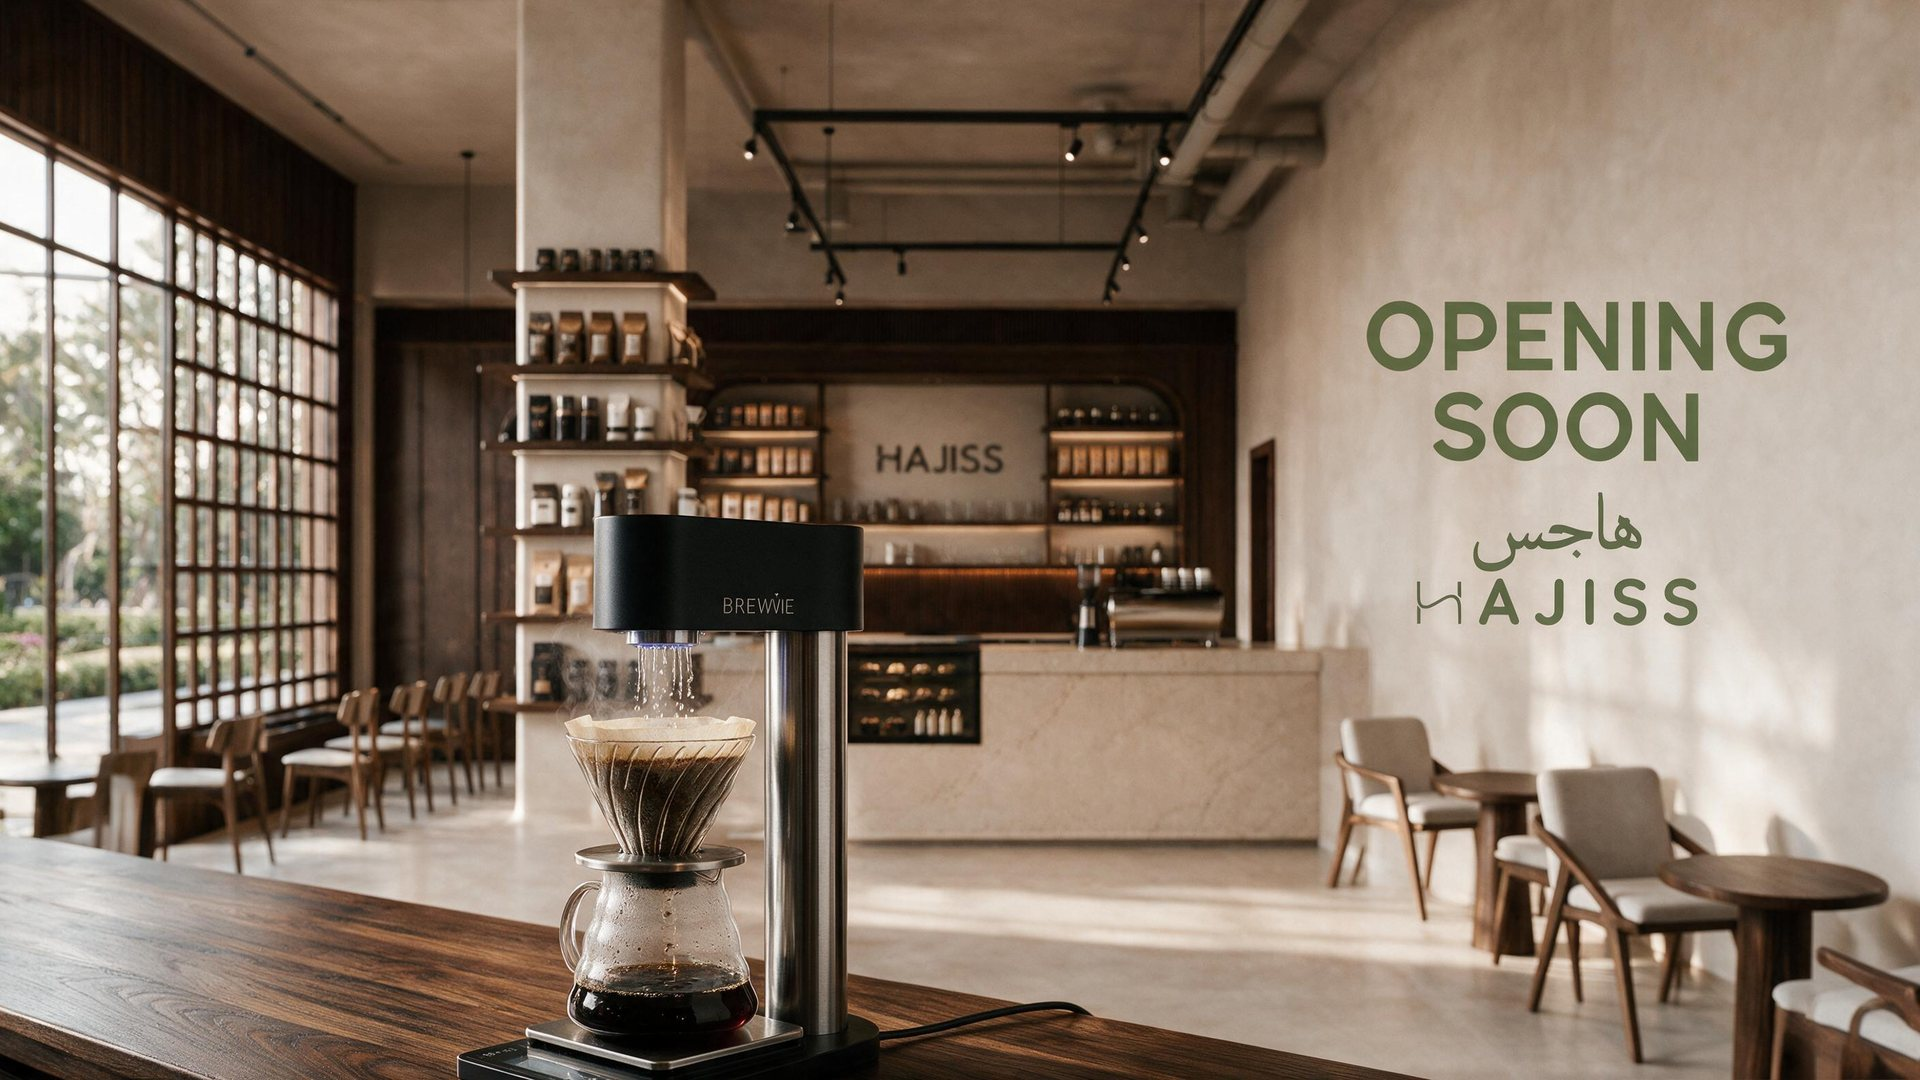
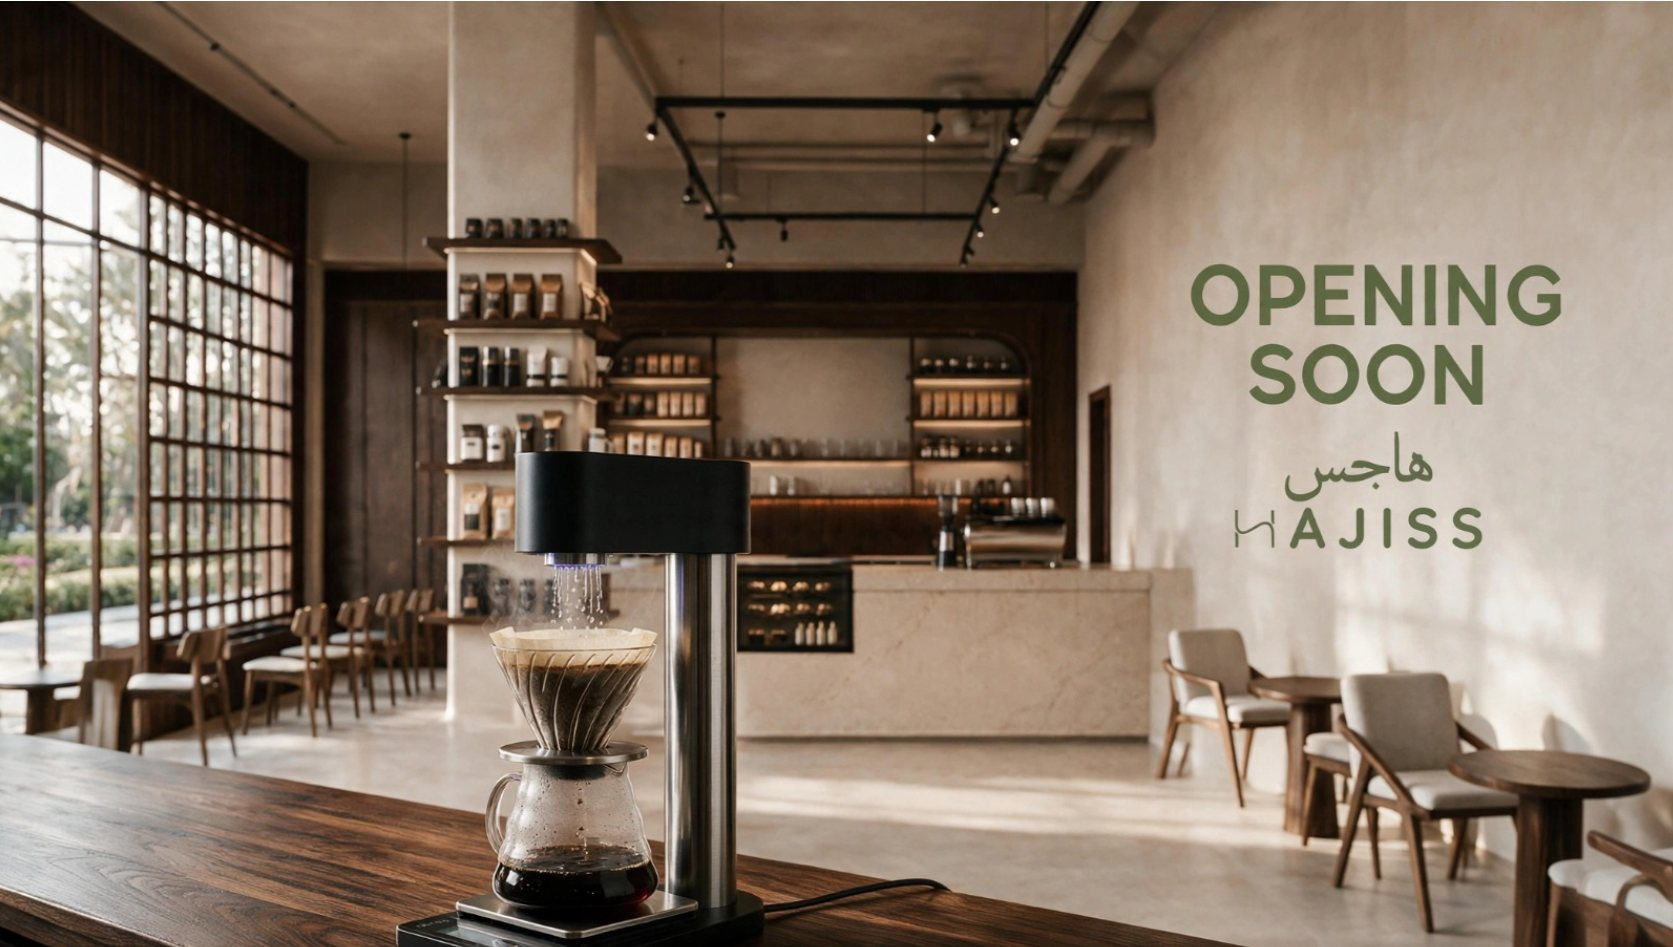
header update

diff --git a/index.html b/index.html
@@ -20,14 +20,89 @@
         font-family: -apple-system, BlinkMacSystemFont, 'Segoe UI', Tahoma, sans-serif;
       }
       #boot-failed[hidden] { display: none; }
-      #boot b { font-size: 44px; font-weight: 700; }
-      #boot span { margin-top: 6px; font-size: 13px; letter-spacing: 0.4em; color: #c8bca7; }
-      #boot-failed p { margin: 4px 0; font-size: 17px; }
-      #boot-failed button {
-        margin-top: 18px; padding: 12px 28px; border: 0; border-radius: 999px;
-        background: #c8bca7; color: #2b180e; font-size: 15px; font-weight: 700;
+      /* Brand loader. Selectors start with #boot and animations are !important, because the site's
+         global `* { animation: none !important }` rule would otherwise switch them off. Only
+         opacity, scale, rotate, stroke and background properties are animated (transform is blocked). */
+      #boot {
+        background: radial-gradient(ellipse at 50% 38%, #5b4a3a 0%, #40372d 42%, #2b180e 100%);
+        overflow: hidden;
       }
-      #boot-error { margin-top: 18px; max-width: 320px; font-size: 11px; color: #c8bca7; word-break: break-all; direction: ltr; }
+      #boot::before {
+        content: ''; position: absolute; inset: 0; pointer-events: none;
+        background-image: radial-gradient(rgba(200, 188, 167, 0.07) 1px, transparent 0);
+        background-size: 22px 22px;
+      }
+      #boot .boot-stage {
+        position: relative; display: flex; flex-direction: column; align-items: center;
+        animation: boot-in 0.7s ease-out both !important;
+      }
+      #boot .boot-mark { width: 168px; height: 168px; overflow: visible; }
+      #boot .boot-track { fill: none; stroke: rgba(200, 188, 167, 0.14); stroke-width: 1.5; }
+      #boot .boot-sweep {
+        fill: none; stroke: url(#bootRing); stroke-width: 2.5; stroke-linecap: round;
+        stroke-dasharray: 16 84; transform-box: view-box; transform-origin: 60px 60px;
+        animation: boot-spin 1.8s linear infinite !important;
+      }
+      #boot .boot-cup-line, #boot .boot-handle-line, #boot .boot-saucer-line {
+        fill: none; stroke: #e6cfa6; stroke-width: 2.6; stroke-linecap: round; stroke-linejoin: round;
+        stroke-dasharray: 100; stroke-dashoffset: 100;
+        animation: boot-draw 1.2s cubic-bezier(.45,0,.2,1) forwards !important;
+      }
+      #boot .boot-handle-line { animation-delay: 0.25s !important; }
+      #boot .boot-saucer-line { animation-delay: 0.45s !important; }
+      #boot .boot-coffee {
+        fill: url(#bootCoffee); transform-box: view-box; transform-origin: 60px 92px;
+        animation: boot-fill 1.6s cubic-bezier(.4,0,.2,1) 0.5s both !important;
+      }
+      #boot .boot-steam {
+        fill: none; stroke: rgba(243, 235, 221, 0.8); stroke-width: 2.2; stroke-linecap: round;
+        stroke-dasharray: 100; stroke-dashoffset: 100; opacity: 0;
+        animation: boot-steam 2.6s ease-in-out infinite !important;
+      }
+      #boot .boot-steam.b { animation-delay: 0.9s !important; }
+      #boot .boot-brand {
+        margin-top: 30px; display: flex; flex-direction: column; align-items: center;
+        animation: boot-in 0.8s ease-out 0.6s both !important;
+      }
+      #boot .boot-brand b { font-size: 38px; font-weight: 700; color: #f3ebdd; line-height: 1.2; }
+      #boot .boot-rule {
+        display: block; width: 56px; height: 1px; margin: 12px 0 10px; background: #d9b98a;
+        animation: boot-rule 0.9s cubic-bezier(.2,.7,.2,1) 0.9s both !important;
+      }
+      #boot .boot-brand span { font-size: 12px; letter-spacing: 0.42em; color: #c8bca7; margin-right: -0.42em; }
+      #boot .boot-tag { margin: 16px 0 0; font-size: 13px; color: #c8bca7; animation: boot-in 0.8s ease-out 1s both !important; }
+      #boot .boot-bar {
+        position: absolute; bottom: 14%; left: 50%; width: 140px; height: 2px; margin-left: -70px;
+        overflow: hidden; border-radius: 2px; background: rgba(200, 188, 167, 0.16);
+      }
+      #boot .boot-bar i {
+        position: absolute; top: 0; bottom: 0; width: 45%; border-radius: 2px;
+        background: linear-gradient(90deg, rgba(217, 185, 138, 0), #d9b98a, rgba(217, 185, 138, 0));
+        animation: boot-shimmer 1.5s ease-in-out infinite !important;
+      }
+      #boot.is-leaving { animation: boot-out 0.6s ease-in forwards !important; }
+      @keyframes boot-in { from { opacity: 0; } to { opacity: 1; } }
+      @keyframes boot-draw { to { stroke-dashoffset: 0; } }
+      @keyframes boot-spin { to { rotate: 360deg; } }
+      @keyframes boot-fill { from { scale: 1 0; } to { scale: 1 1; } }
+      @keyframes boot-rule { from { scale: 0 1; } to { scale: 1 1; } }
+      @keyframes boot-steam {
+        0% { stroke-dashoffset: 100; opacity: 0; }
+        20% { opacity: 0.9; }
+        70% { stroke-dashoffset: 0; opacity: 0.5; }
+        100% { stroke-dashoffset: -30; opacity: 0; }
+      }
+      @keyframes boot-shimmer { from { left: -45%; } to { left: 100%; } }
+      @keyframes boot-out { from { opacity: 1; } to { opacity: 0; visibility: hidden; } }
+      @media (prefers-reduced-motion: reduce) {
+        #boot .boot-stage, #boot .boot-brand, #boot .boot-tag, #boot .boot-sweep,
+        #boot .boot-steam, #boot .boot-bar i, #boot .boot-rule { animation: none !important; }
+        #boot .boot-cup-line, #boot .boot-handle-line, #boot .boot-saucer-line {
+          stroke-dashoffset: 0 !important; animation: none !important;
+        }
+        #boot .boot-coffee { scale: 1 1 !important; animation: none !important; }
+        #boot .boot-steam, #boot .boot-bar { display: none; }
+      }
     </style>
     <!-- Kept in plain ES5 so it still runs on browsers too old for the app itself. -->
     <script>
@@ -37,9 +112,21 @@
         var lastError = '';
         var started = new Date().getTime();
 
+        var MIN_SHOW_MS = 1600;
+
         function booted() {
           var root = document.getElementById('root');
-          return !!root && root.children.length > 0 && !document.getElementById('boot');
+          return !!root && root.children.length > 0;
+        }
+        // Fade the loader out once the app is ready, after it has been shown long enough to be seen.
+        function hideLoader() {
+          var wait = Math.max(0, MIN_SHOW_MS - (new Date().getTime() - started));
+          setTimeout(function () {
+            var loader = document.getElementById('boot');
+            if (!loader) return;
+            loader.className += ' is-leaving';
+            setTimeout(function () { if (loader.parentNode) loader.parentNode.removeChild(loader); }, 700);
+          }, wait);
         }
         function setFailed(show) {
           var box = document.getElementById('boot-failed');
@@ -75,6 +162,7 @@
           if (booted()) {
             clearInterval(timer);
             setFailed(false);
+            hideLoader();
             try { sessionStorage.removeItem(RETRY_KEY); } catch (e) { /* storage blocked */ }
           } else if (new Date().getTime() - started > GIVE_UP_MS) {
             lastError = lastError || 'Timed out waiting for the app to start';
@@ -85,7 +173,38 @@
     </script>
   </head>
   <body dir="rtl">
-    <div id="root"><div id="boot"><b>هاجس</b><span>HAJISS</span></div></div>
+    <div id="boot" role="status" aria-live="polite" aria-label="جارٍ تحميل هاجس">
+      <div class="boot-stage">
+        <svg class="boot-mark" viewBox="0 0 120 120" aria-hidden="true">
+          <defs>
+            <linearGradient id="bootRing" x1="0" y1="0" x2="1" y2="1">
+              <stop offset="0" stop-color="#f3ebdd" />
+              <stop offset="1" stop-color="#b68a58" />
+            </linearGradient>
+            <linearGradient id="bootCoffee" x1="0" y1="0" x2="0" y2="1">
+              <stop offset="0" stop-color="#9a6a40" />
+              <stop offset="1" stop-color="#4a2c1a" />
+            </linearGradient>
+          </defs>
+          <circle class="boot-track" cx="60" cy="60" r="56" />
+          <circle class="boot-sweep" cx="60" cy="60" r="56" pathLength="100" />
+          <path class="boot-coffee" d="M37 56 H73 V74 C73 84 66 91 56 91 H54 C44 91 37 84 37 74 Z" />
+          <path class="boot-cup-line" pathLength="100" d="M37 56 H73 V74 C73 84 66 91 56 91 H54 C44 91 37 84 37 74 Z" />
+          <path class="boot-handle-line" pathLength="100" d="M73 62 H80 C86 62 86 76 80 76 H73" />
+          <path class="boot-saucer-line" pathLength="100" d="M28 96 H82" />
+          <path class="boot-steam" pathLength="100" d="M48 46 C44 40 52 35 48 27" />
+          <path class="boot-steam b" pathLength="100" d="M62 46 C58 40 66 35 62 27" />
+        </svg>
+        <div class="boot-brand">
+          <b>هاجس</b>
+          <i class="boot-rule" aria-hidden="true"></i>
+          <span>HAJISS</span>
+        </div>
+        <p class="boot-tag">قهوة مختصة · حائل</p>
+      </div>
+      <div class="boot-bar" aria-hidden="true"><i></i></div>
+    </div>
+    <div id="root"></div>
     <div id="boot-failed" hidden>
       <p>تعذر تحميل الموقع</p>
       <p>The site could not load</p>

diff --git a/src/components/Hero.tsx b/src/components/Hero.tsx
@@ -10,8 +10,8 @@ const heroImages: { src: string; srcEn?: string; alt: string; altEn: string }[] 
     altEn: 'The Hajiss café storefront at night',
   },
   {
-    src: '/images/hero-opening-soon-ar.jpg',
-    srcEn: '/images/hero-opening-soon-en.jpg',
+    // The full English composition is used for both languages: the Arabic overlay was cropped on phones.
+    src: '/images/hero-opening-soon-en.jpg',
     alt: 'الافتتاح قريباً — هاجس',
     altEn: 'Opening soon — Hajiss',
   },

diff --git a/src/components/LocationMapSection.tsx b/src/components/LocationMapSection.tsx
@@ -31,7 +31,7 @@ export const LocationMapSection: React.FC = () => {
           />
         </div>
 
-        <div className="self-start text-start" dir={dir}>
+        <div className="order-first self-start text-start lg:order-none" dir={dir}>
           <h2 id="location-map-title" className="visual-section-title font-kufi text-3xl font-bold text-[#40372D] sm:text-4xl">
             {t('موقعنا', 'Our Location')}
           </h2>
